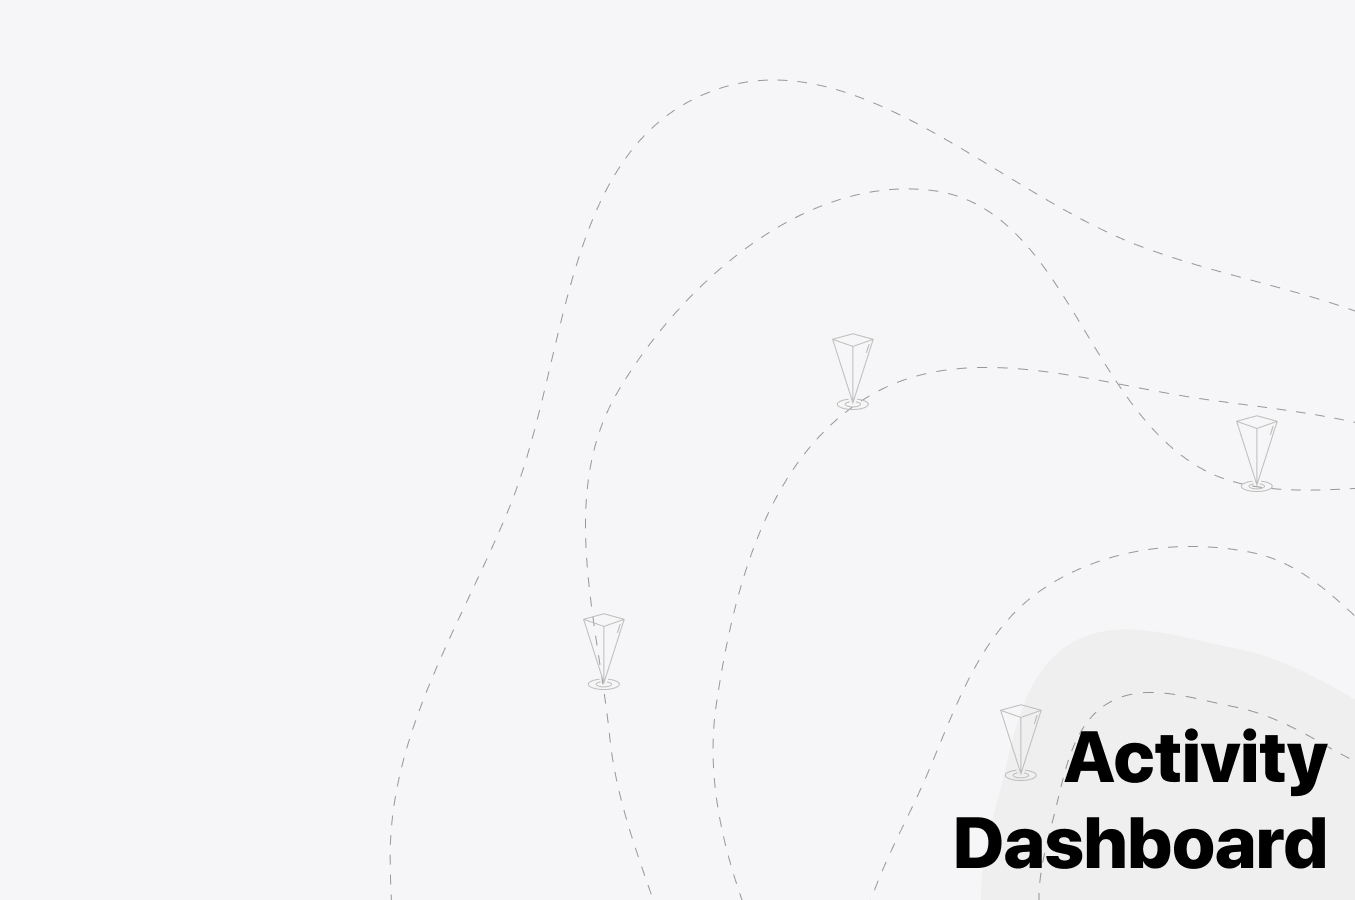
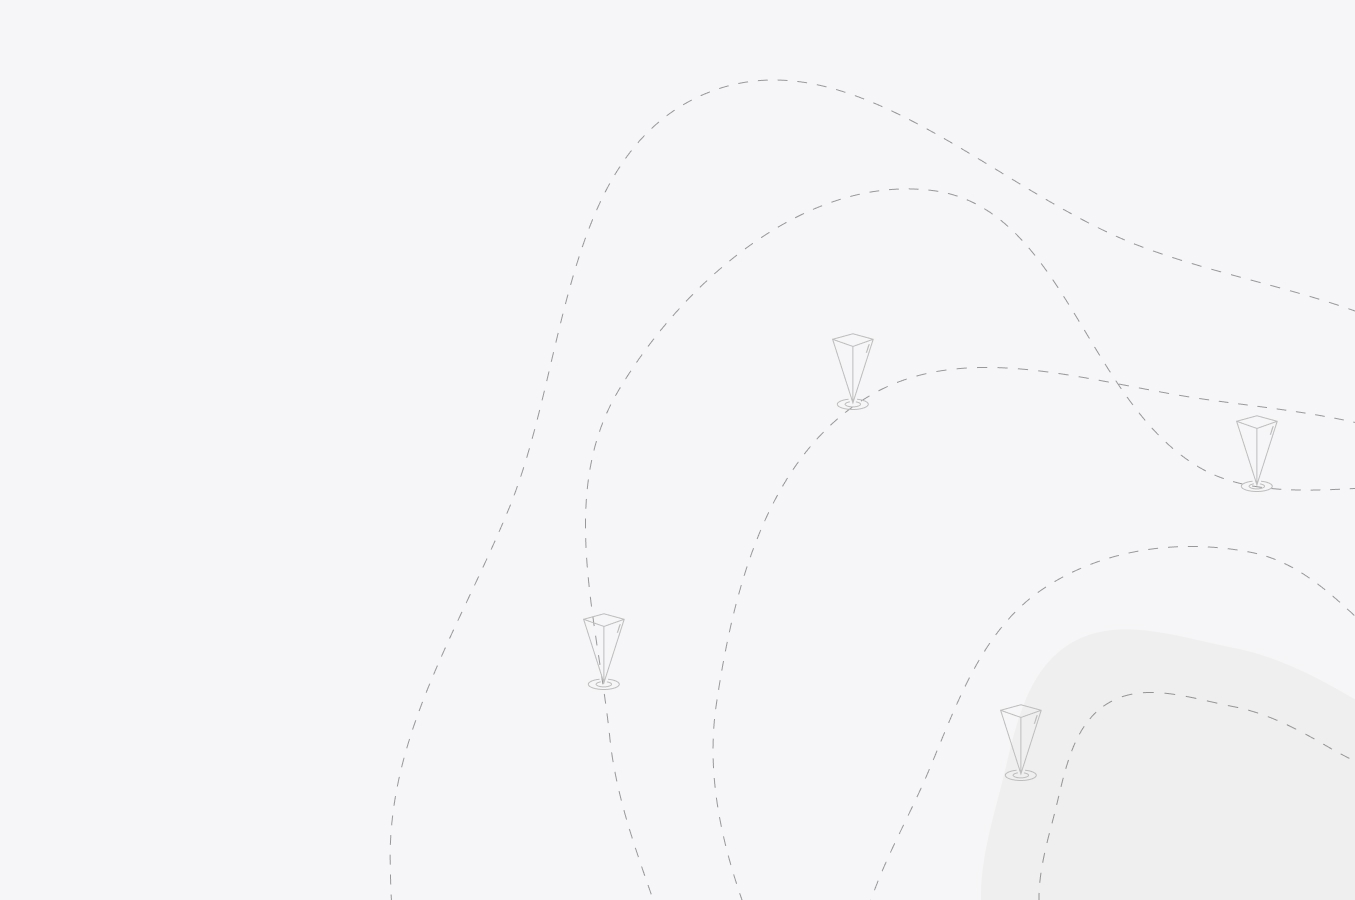
fixed a lot of styles and added responsiveness for new layout

Changed region(s): [[0.6819, 0.8089, 0.9919, 0.9644]]

diff --git a/src/components/svg/vibevent-name-logo/VibeventNameLogo.tsx b/src/components/svg/vibevent-name-logo/VibeventNameLogo.tsx
@@ -1,0 +1,30 @@
+import * as React from "react";
+import { motion } from "framer-motion";
+import "./index.scss";
+
+const VibeventNameLogo = () => (
+  <motion.svg
+    width="279"
+    height="42"
+    viewBox="0 0 279 42"
+    fill="none"
+    xmlns="http://www.w3.org/2000/svg"
+    className="vibevent-name-logo"
+  >
+    <rect width="279" height="42" fill="black" />
+    <path
+      d="M50.3153 28L45.7073 15.994H47.0933L51.2513 26.902H50.7833L54.8693 16.03L56.2013 15.994L51.5933 28H50.3153ZM93.0128 28V15.994H96.9908C98.0348 15.994 98.8448 16.144 99.4208 16.444C99.9968 16.732 100.399 17.122 100.627 17.614C100.867 18.094 100.987 18.628 100.987 19.216C100.987 19.732 100.909 20.134 100.753 20.422C100.597 20.71 100.405 20.95 100.177 21.142C99.9608 21.322 99.7508 21.508 99.5468 21.7L99.4028 21.466C99.7148 21.574 100.051 21.754 100.411 22.006C100.771 22.246 101.077 22.576 101.329 22.996C101.581 23.416 101.707 23.95 101.707 24.598C101.707 25.402 101.533 26.056 101.185 26.56C100.837 27.052 100.333 27.418 99.6728 27.658C99.0248 27.886 98.2508 28 97.3508 28H93.0128ZM94.3088 26.794H97.4588C97.9748 26.794 98.4548 26.74 98.8988 26.632C99.3548 26.524 99.7208 26.308 99.9968 25.984C100.273 25.648 100.411 25.162 100.411 24.526C100.411 24.046 100.321 23.668 100.141 23.392C99.9608 23.104 99.7208 22.894 99.4208 22.762C99.1328 22.618 98.8088 22.528 98.4488 22.492C98.1008 22.444 97.7528 22.42 97.4048 22.42H94.3088V26.794ZM94.3088 21.196H97.2788C97.6748 21.196 98.0528 21.16 98.4128 21.088C98.7848 21.004 99.0908 20.83 99.3308 20.566C99.5708 20.29 99.6908 19.87 99.6908 19.306C99.6908 18.49 99.4628 17.944 99.0068 17.668C98.5508 17.38 97.9208 17.236 97.1168 17.236H94.3088V21.196ZM119.166 28V15.994H126.744V17.218H120.462V21.358H125.988V22.618H120.462V26.776H126.744V28H119.166ZM147.913 28L143.305 15.994H144.691L148.849 26.902H148.381L152.467 16.03L153.799 15.994L149.191 28H147.913ZM170.539 28V15.994H178.117V17.218H171.835V21.358H177.361V22.618H171.835V26.776H178.117V28H170.539ZM195.848 28V15.994H197.324L204.812 26.56L204.488 27.064V15.994H205.784V28H204.326L196.55 17.038L197.144 16.48V28H195.848ZM226.767 28V17.218H222.519V15.994H232.293V17.218H228.063V28H226.767Z"
+      fill="white"
+    />
+    <path
+      d="M71.3276 27.5342L73 17.5L74.6724 27.5342C74.713 27.7781 74.525 28 74.2778 28H71.7222C71.475 28 71.287 27.7781 71.3276 27.5342Z"
+      fill="white"
+    />
+    <path
+      d="M73 19L71.6009 16.6015C71.4454 16.3349 71.6377 16 71.9464 16H74.0536C74.3623 16 74.5547 16.3349 74.3991 16.6015L73 19Z"
+      fill="white"
+    />
+  </motion.svg>
+);
+
+export default VibeventNameLogo;

diff --git a/src/routes/Event/EventDashboard/index.tsx b/src/routes/Event/EventDashboard/index.tsx
@@ -1,7 +1,7 @@
 import React, { useEffect } from "react";
 import { useHistory } from "react-router-dom";
 import { connect } from "react-redux";
-import { motion, useMotionValue, useTransform } from "framer-motion";
+// import { motion, useMotionValue, useTransform } from "framer-motion";
 
 import QuickAccessMenu from "components/searchTools";
 import EventCardLD from "components/cards/largeCard/eventCardLargeDesktop";
@@ -44,17 +44,17 @@ const EventDashboard: React.FunctionComponent<Props> = (props) => {
   const hasErrors = errors.events || events.eventCategories;
   // const hasErrors = true;
 
-  const x = useMotionValue(0);
-  const opacityRight = useTransform(
-    x,
-    [0, (-window.innerWidth / 2) * 1.25 - 20, (-window.innerWidth / 2) * 1.25],
-    [1, 1, 0]
-  );
-  const opacityLeft = useTransform(
-    x,
-    [0, 20, (-window.innerWidth / 2) * 1.25],
-    [0, 1, 1]
-  );
+  // const x = useMotionValue(0);
+  // const opacityRight = useTransform(
+  //   x,
+  //   [0, (-window.innerWidth / 2) * 1.25 - 20, (-window.innerWidth / 2) * 1.25],
+  //   [1, 1, 0]
+  // );
+  // const opacityLeft = useTransform(
+  //   x,
+  //   [0, 20, (-window.innerWidth / 2) * 1.25],
+  //   [0, 1, 1]
+  // );
 
   // TODO: Lazy loading (don't load all events, you'll die)
   return (
@@ -130,6 +130,11 @@ const EventDashboard: React.FunctionComponent<Props> = (props) => {
               </div>
             </div>
             <QuickAccessMenu events={events} />
+            <h1 className="page-label">
+              Activity
+              <br />
+              Dashboard
+            </h1>
           </div>
         ))}
     </React.Fragment>

diff --git a/src/components/searchTools/index.tsx b/src/components/searchTools/index.tsx
@@ -4,6 +4,7 @@ import QuickToolCard from "components/searchTools/utilityCard/utilityCard";
 import SmallCard from "../cards/smallCard/smallCard";
 import { EventsPayload } from "types/store";
 import "./index.scss";
+import VibeventNameLogo from "components/svg/vibevent-name-logo/VibeventNameLogo";
 
 interface Props {
   events: EventsPayload;
@@ -22,6 +23,9 @@ const QuickAccessMenu: React.FunctionComponent<Props> = (props) => {
   return (
     <>
       <div className="quick-access">
+        <div className="vibevent-logo-container">
+          <VibeventNameLogo />
+        </div>
         <div className="quick-access-container">
           {[0, 1, 2, 3].map((item) => {
             return <QuickToolCard key={item} />;

diff --git a/src/components/searchTools/index.scss b/src/components/searchTools/index.scss
@@ -3,13 +3,22 @@
   display: flex;
   flex-wrap: wrap;
   position: fixed;
-  top: 10%;
+  top: 5%;
   right: 2.5%;
   @include tablet-landscape {
     width: 40%;
   }
   @include desktop {
     width: 30%;
+  }
+
+  /* TEMP CHANGE */
+  .vibevent-logo-container {
+    position: relative;
+    width: 100%;
+    right: 0;
+    height: 5vh;
+    margin-bottom: 3vh;
   }
 }
 
@@ -38,9 +47,12 @@
     h3 {
       display: inline-block;
       margin: 0;
+      font-family: $primary-label;
+      font-weight: 700;
+      @include tablet-landscape {
+        font-size: 1.25em;
+      }
       @include desktop {
-        font-family: $primary-label;
-        font-weight: 700;
         font-size: 1.375em;
       }
     }

diff --git a/src/components/layouts/sidebar/sidebar.tsx b/src/components/layouts/sidebar/sidebar.tsx
@@ -5,6 +5,7 @@ import useDimensions from "react-use-dimensions";
 
 import MenuToggle from "components/svg/menu-toggle/MenuToggle";
 import VibeventLogo from "components/svg/vibevent-logo/VibeventLogo";
+// import VibeventNameLogo from "components/svg/vibevent-name-logo/VibeventNameLogo";
 import "./index.scss";
 
 interface Props {}
@@ -75,6 +76,7 @@ const Navigation = ({ isOpen }) => {
         className="vibevent-logo-container"
         initial={false}
       >
+        {/* <VibeventNameLogo /> */}
         <VibeventLogo toggle={() => toggleTheme()} theme={theme} />
       </motion.div>
       <motion.ul className="navlinks">

diff --git a/src/assets/scss/mixins/_fontstyles.scss b/src/assets/scss/mixins/_fontstyles.scss
@@ -1,3 +1,23 @@
+/* ROUTES */
+@mixin page-label {
+  font-family: $primary-label;
+  position: fixed;
+  bottom: 2vh;
+  margin: 0;
+  right: 2.5%;
+  text-align: right;
+  font-weight: 800;
+  user-select: none;
+  @include tablet-landscape {
+    line-height: 115%;
+    font-size: 4.5em;
+  }
+  @include desktop {
+    line-height: 115%;
+    font-size: 6em;
+  }
+}
+
 /* DESKTOP EVENT CARD */
 
 @mixin card-desktop-title {

diff --git a/src/routes/Event/EventDashboard/index.scss b/src/routes/Event/EventDashboard/index.scss
@@ -23,7 +23,7 @@
     }
 
     .events-category:first-child {
-      margin-top: 10%;
+      margin-top: 5vh;
     }
   }
 }
@@ -81,6 +81,10 @@
 .gradient-fade-left {
   transform: rotate(-180deg);
   left: 0;
+}
+
+.page-label {
+  @include page-label;
 }
 
 ::-webkit-scrollbar {

diff --git a/src/components/cards/largeCard/index.scss b/src/components/cards/largeCard/index.scss
@@ -18,6 +18,7 @@
   min-height: 30vh;
   max-width: 45%;
   max-height: 30vh;
+  user-select: none;
   /* ------- */
 
   .event-image {

diff --git a/src/components/svg/vibevent-name-logo/index.scss b/src/components/svg/vibevent-name-logo/index.scss
@@ -1,0 +1,6 @@
+.vibevent-name-logo {
+  width: 50%;
+  position: absolute;
+  right: 5%;
+  height: 100%;
+}
